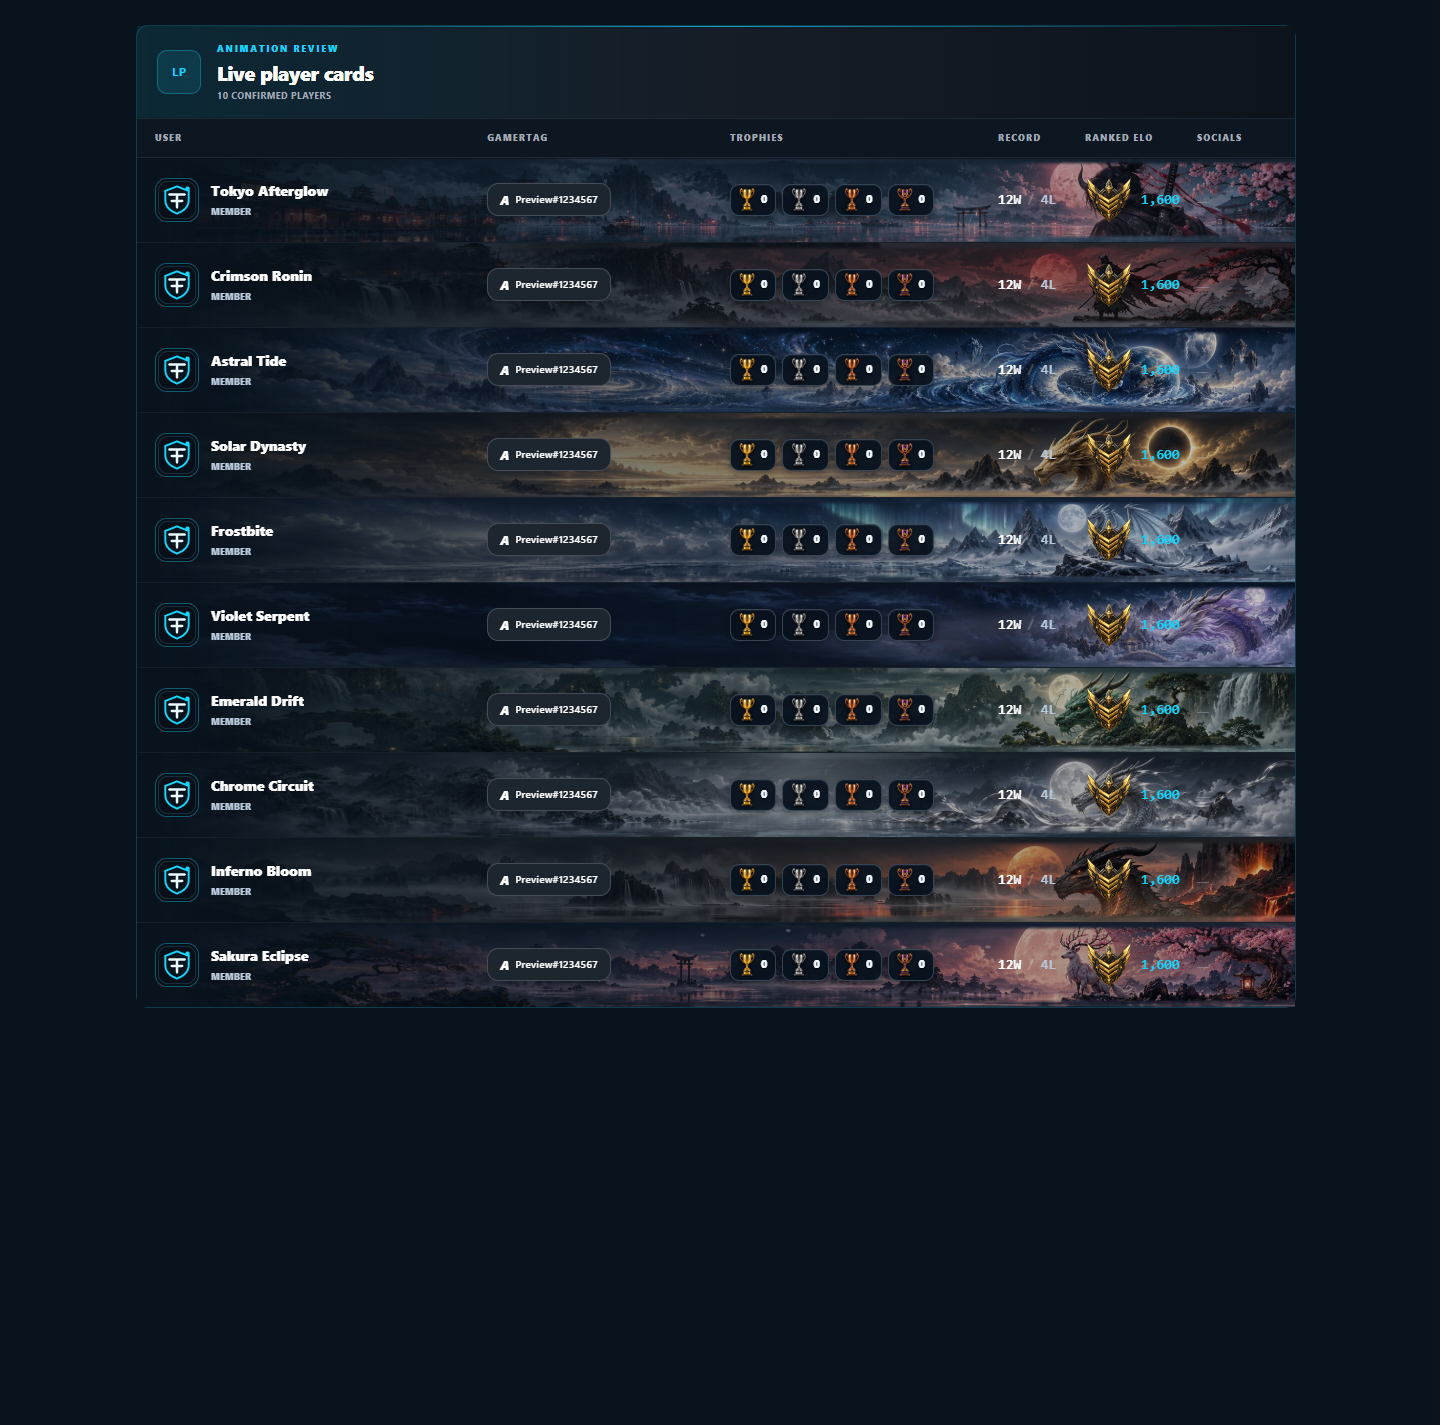
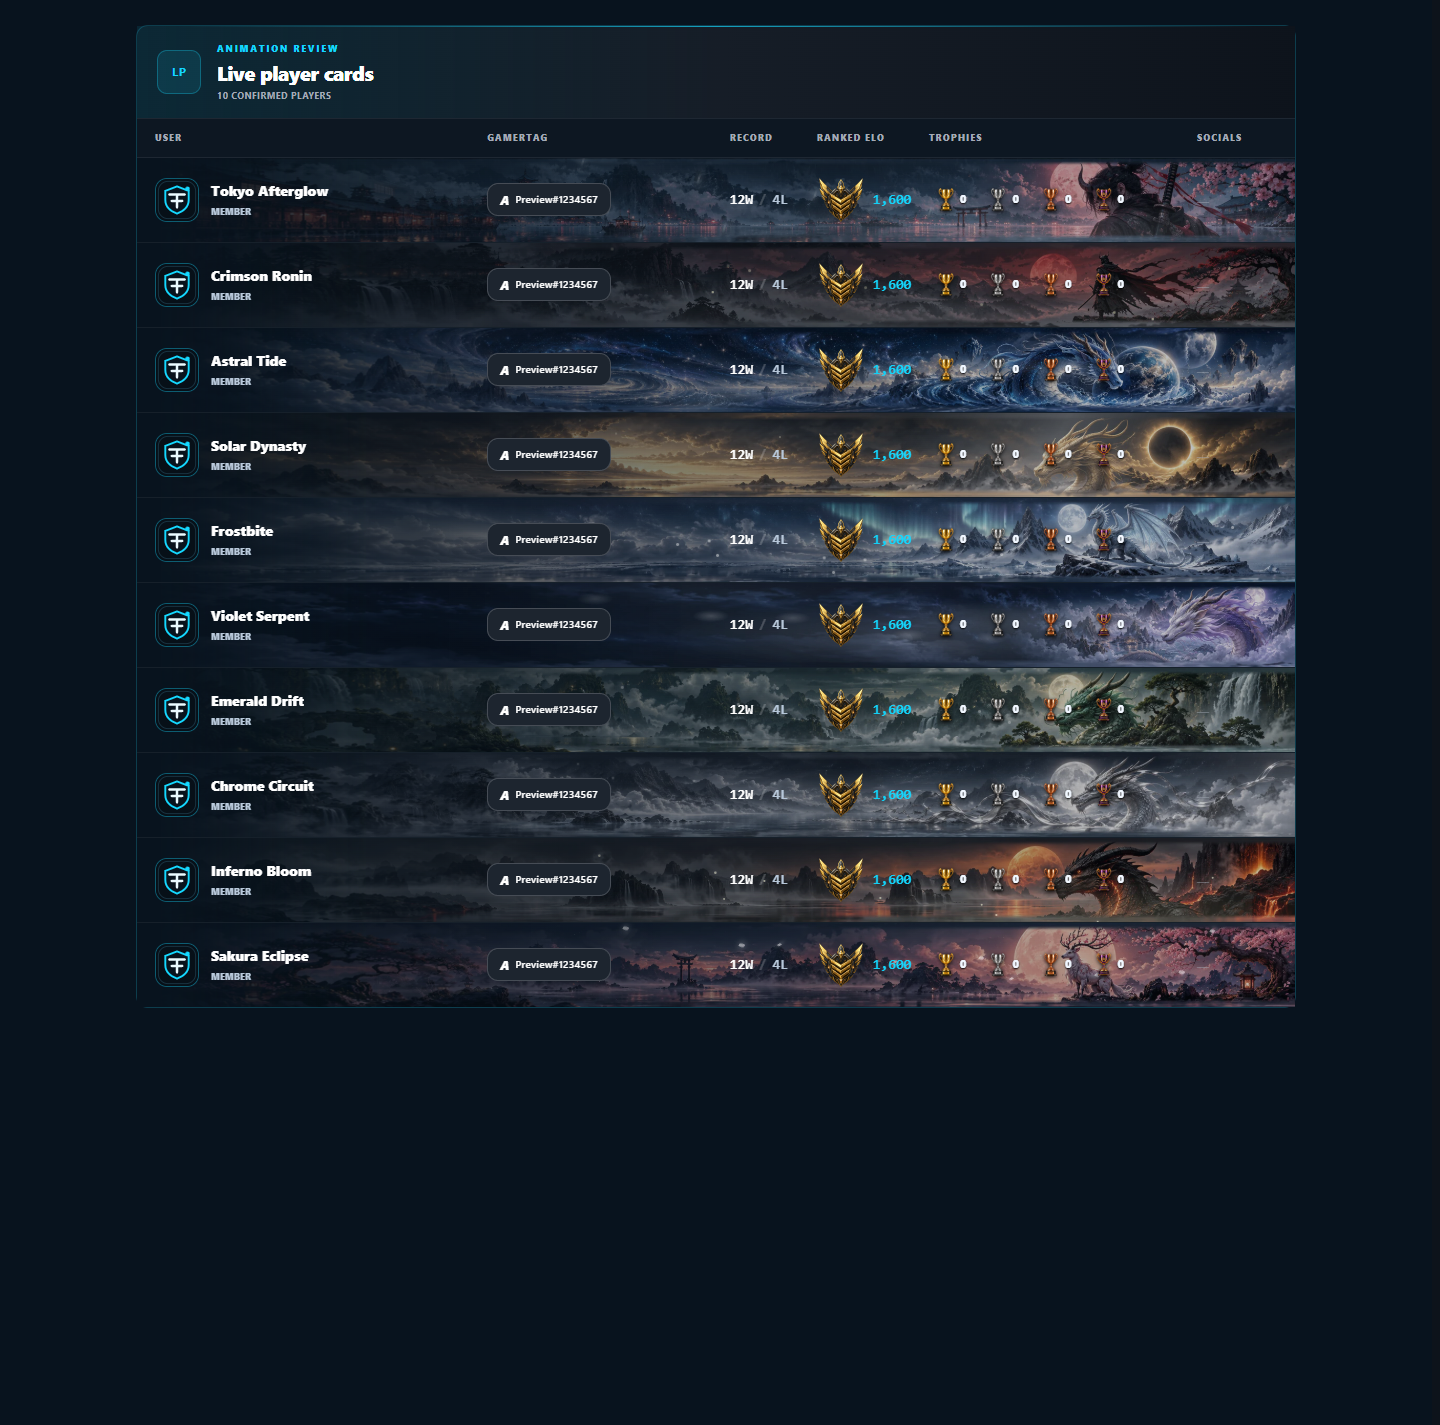
wrewerrew
wererwre

diff --git a/src/styles/player-cards.css b/src/styles/player-cards.css
@@ -21,7 +21,7 @@
 /* Quiet, independently timed layers instead of repeating full-card patterns. */
 [data-player-card]::after{display:none}
 [data-player-card]::before{filter:saturate(.82);animation:pc-art-drift 14s ease-in-out infinite alternate;transform-origin:85% 50%}
-.pc-atmosphere{position:absolute!important;inset:0;z-index:-1;overflow:hidden;pointer-events:none;contain:paint;mask-image:linear-gradient(90deg,transparent 25%,#000 68%);-webkit-mask-image:linear-gradient(90deg,transparent 25%,#000 68%);--atmosphere:#b8ccdc}
+.pc-atmosphere{position:absolute!important;inset:0;z-index:-1;overflow:hidden;pointer-events:none;contain:paint;mask-image:linear-gradient(90deg,transparent 20%,#000 48%);-webkit-mask-image:linear-gradient(90deg,transparent 20%,#000 48%);--atmosphere:#b8ccdc}
 .pc-atmosphere>i{position:absolute;display:block;pointer-events:none;animation-fill-mode:both;animation-delay:var(--mote-delay,0s)}
 .pc-scene-light,.pc-scene-haze{inset:-15%;opacity:0;background:radial-gradient(ellipse at 80% 60%,#b7cfdf20,transparent 48%)}
 .pc-mote{left:var(--mote-x);top:var(--mote-y);width:2px;height:2px;border-radius:50%;background:var(--atmosphere);opacity:0;animation:pc-dust var(--mote-time) linear infinite}
@@ -74,6 +74,15 @@
 @keyframes pc-silver-pass{0%{opacity:0;transform:translate3d(-42%,0,0)}15%{opacity:.32}48%{opacity:.72}85%{opacity:.32}100%{opacity:0;transform:translate3d(42%,0,0)}}
 @keyframes pc-heat-flow{from{opacity:.16;transform:translate3d(2%,5%,0) scale(.95)}to{opacity:.46;transform:translate3d(-3%,-4%,0) scale(1.1)}}
 @keyframes pc-petal-dance{0%{opacity:0;transform:translate3d(20px,-34px,0) rotate(0deg) rotateY(0deg)}20%{opacity:.52}45%{transform:translate3d(-6px,2px,0) rotate(75deg) rotateY(100deg)}75%{opacity:.25;transform:translate3d(8px,32px,0) rotate(140deg) rotateY(190deg)}100%{opacity:0;transform:translate3d(-24px,65px,0) rotate(210deg) rotateY(270deg)}}
+/* Brighter motion layers remain behind the stationary stats, without zooming the artwork. */
+.pc-atmosphere>.pc-scene-light,.pc-atmosphere>.pc-scene-haze{filter:brightness(1.65);animation-delay:-3s}
+.pc-atmosphere>.pc-mote{filter:brightness(1.6);box-shadow:0 0 7px currentColor}
+[data-atmosphere="rain"] .pc-mote{width:1.5px;height:17px}
+[data-atmosphere="snow"] .pc-mote{width:3px;height:3px}
+[data-atmosphere="embers"] .pc-mote,[data-atmosphere="lava"] .pc-mote,[data-atmosphere="fireflies"] .pc-mote{width:3px;height:3px}
+[data-atmosphere="tide"] .pc-mote,[data-atmosphere="solar"] .pc-mote{width:2px;height:2px}
+[data-atmosphere="petals"] .pc-mote{width:7px;height:3.5px}
+[data-atmosphere="mist"] .pc-mote{width:36px;height:12px;background:radial-gradient(ellipse,#c7badb99,transparent 70%);box-shadow:none;animation:pc-silk-mist var(--mote-time) ease-in-out infinite alternate}
 .pc-atmosphere[data-motion-paused="true"]>i{animation-play-state:paused!important}
 .player-card-option .pc-atmosphere>i{animation-play-state:paused}
 .player-card-option:is(:hover,:focus-visible,[aria-pressed="true"]) .pc-atmosphere>i{animation-play-state:running}

diff --git a/src/components/ui/PlayerCardEffects.jsx b/src/components/ui/PlayerCardEffects.jsx
@@ -29,9 +29,9 @@ export default function PlayerCardEffects({ player }) {
     return () => { observer?.disconnect(); resize?.disconnect(); cancelAnimationFrame(frame); document.removeEventListener("visibilitychange", update); };
   }, [theme?.id]);
   if (!theme) return null;
-  const count = { rain: 7, embers: 6, tide: 4, solar: 3, snow: 7, mist: 0, fireflies: 6, chrome: 5, lava: 4, petals: 6 }[theme.motion];
+  const count = { rain: 16, embers: 12, tide: 9, solar: 8, snow: 16, mist: 7, fireflies: 12, chrome: 9, lava: 12, petals: 12 }[theme.motion];
   return <span ref={element} className="pc-atmosphere" data-atmosphere={theme.motion} aria-hidden="true">
     <i className="pc-scene-light" /><i className="pc-scene-haze" />
-    {Array.from({ length: count }, (_, index) => <i key={index} className="pc-mote" style={{ "--mote-x": `${38 + ((index * 17) % 58)}%`, "--mote-y": `${12 + ((index * 23) % 72)}%`, "--mote-delay": `${-index * 2.73}s`, "--mote-time": `${7 + (index % 4) * 2}s`, "--mote-drift": `${index % 2 ? -14 : 19}px` }} />)}
+    {Array.from({ length: count }, (_, index) => <i key={index} className="pc-mote" style={{ "--mote-x": `${38 + ((index * 17) % 58)}%`, "--mote-y": `${12 + ((index * 23) % 72)}%`, "--mote-delay": `${-index * 2.73}s`, "--mote-time": `${4.5 + (index % 4) * 1.3}s`, "--mote-drift": `${index % 2 ? -28 : 34}px` }} />)}
   </span>;
 }
